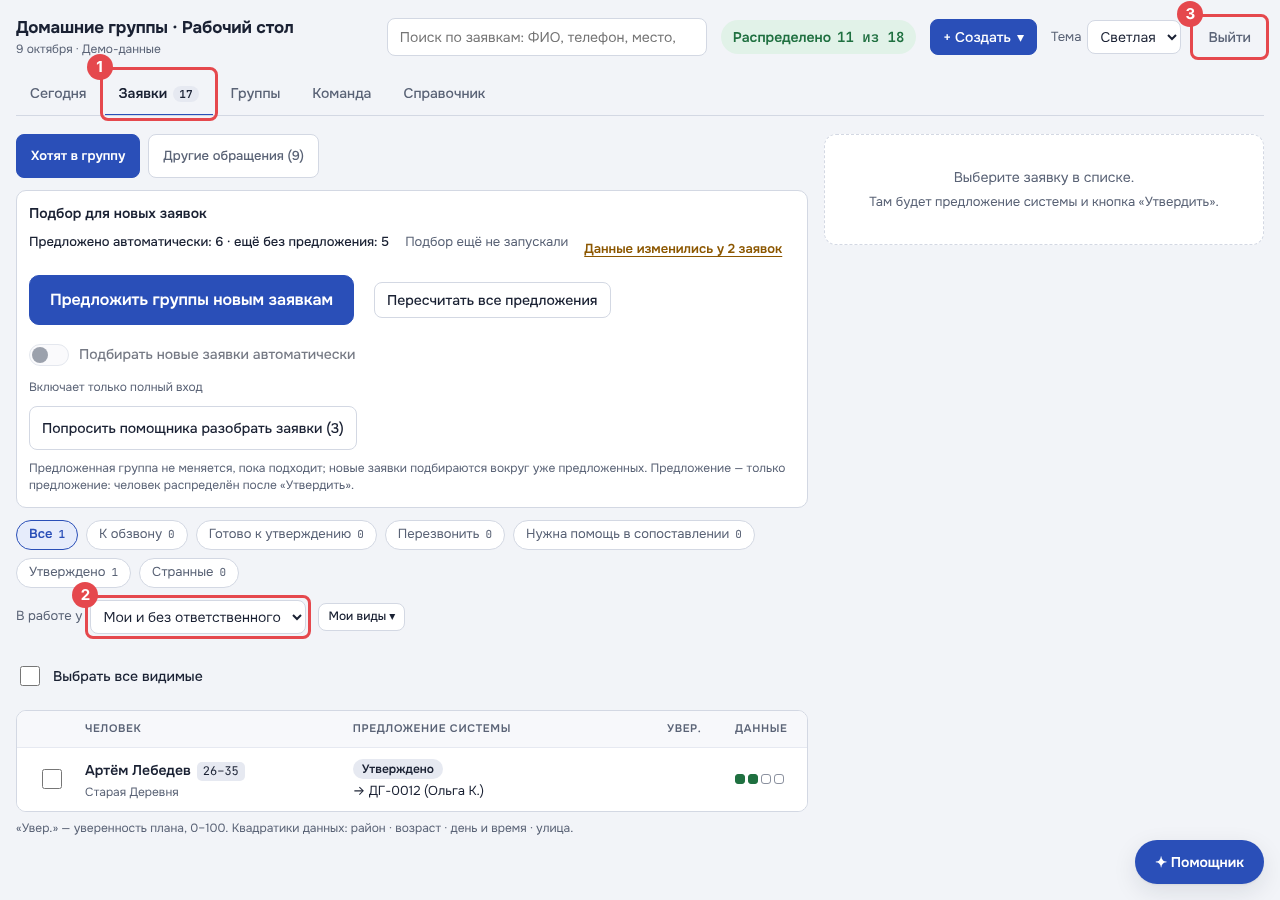
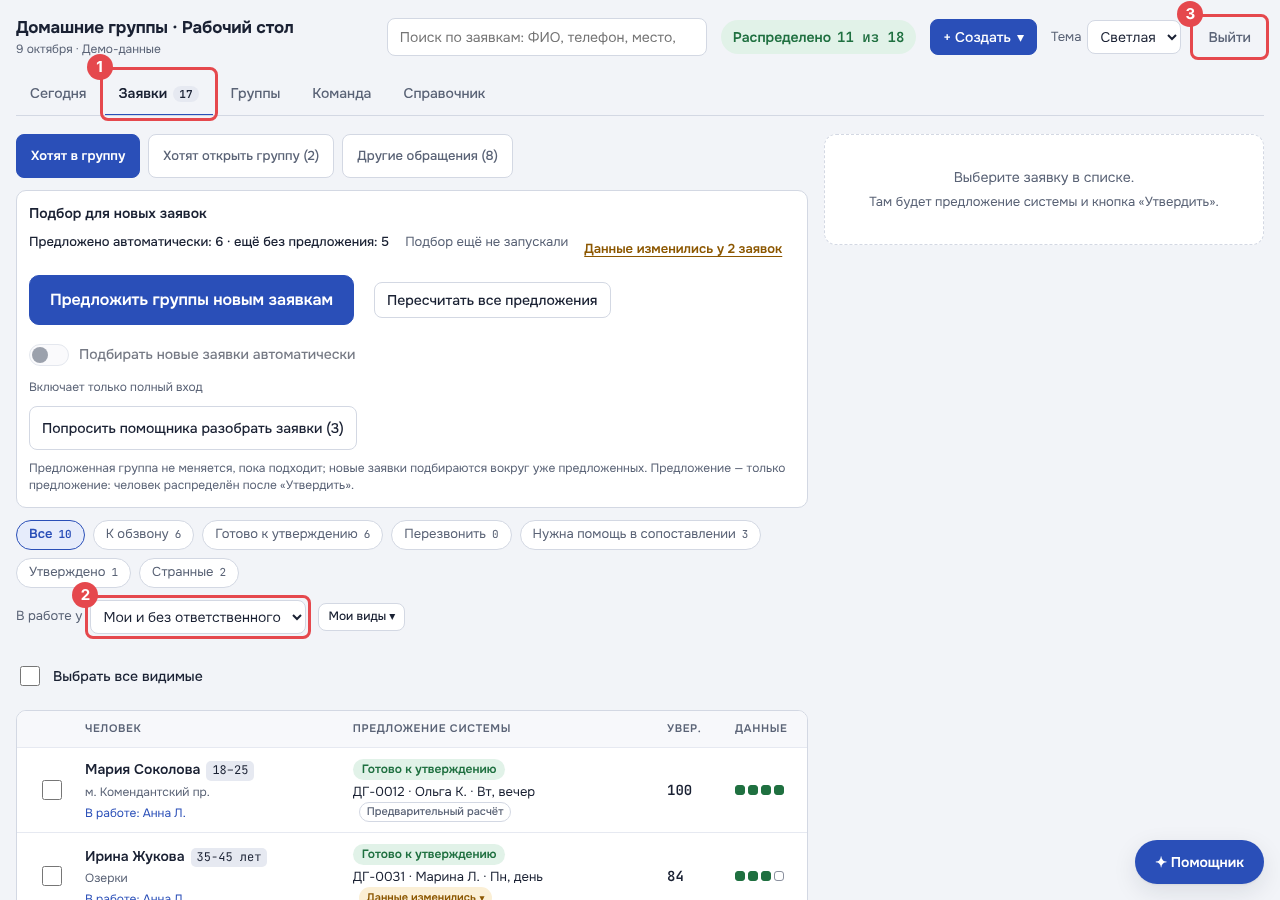
Памятка для команды: раздельно для распределителя и координатора
- docs/ИНСТРУКЦИЯ-КООРДИНАТОРА.md: вход; распределитель — свои и ничьи заявки, звонок, правка
  данных, «Утвердить»; координатор — только свои группы, что спросить у ведущего (собирается ли,
  сколько людей и кто, когда, места всего и свободные, адрес; у неоткрывшейся — точно ли откроется),
  «Данные проверены», «Хотят открыть группу» и «Кого можно направить».
- Снимки пересняты от имени распределителя и координатора: в демо роль задаёт
  localStorage hg.demo.role (fixtures/index.ts), у экрана в shots.mjs — поле as.
- Фикстура: обращение «хочу открыть группу» у координатора Морозова с тремя подходящими людьми.

Claude-Session: https://claude.ai/code/session_016yjkviSSndHnHxkDyu6jMv

diff --git a/web/home-groups/src/fixtures/others.ts b/web/home-groups/src/fixtures/others.ts
@@ -99,6 +99,50 @@ function rawOthers(): RawOther[] {
       ],
     },
     {
+      // Ведущая ДГ-0112 (координатор Морозов Д.): на ней снята инструкция координатора.
+      id: 213,
+      type: 'lead_group',
+      typeLabel: 'Хочет открыть группу или дать дом',
+      gist: 'Хочет открыть женскую группу у себя дома на Новочеркасской.',
+      reconcile: null,
+      state: 'open',
+      fio: 'Татьяна Фёдорова',
+      phone: '79212005519',
+      ageLabel: '46+',
+      place: 'Невский, м. Новочеркасская',
+      status: 'В работе',
+      source: 'Бот · Telegram',
+      waitingDays: 6,
+      callback: false,
+      responsible: 'Морозов Д.',
+      note: null,
+      cancelReason: null,
+      prospects: {
+        futureGroup: { id: 12, code: 'ДГ-0112' },
+        unknownPlace: false,
+        total: 3,
+        items: [
+          {
+            requestId: 4, fio: 'Денис Громов', ageLabel: '26–35', place: 'Ломоносовская', score: 74, proposed: null,
+            reasons: [{ tone: 'good', text: 'тот же район' }, { tone: 'neutral', text: 'возраст рядом' }],
+          },
+          {
+            requestId: 19, fio: 'Виталий Егоров', ageLabel: '26–35', place: 'Рыбацкое', score: 68, proposed: null,
+            reasons: [{ tone: 'good', text: 'тот же район' }, { tone: 'neutral', text: 'день не совпал' }],
+          },
+          {
+            requestId: 18, fio: 'Софья Крылова', ageLabel: '18–25', place: 'Новочеркасская', score: 55, proposed: 'ДГ-0007',
+            reasons: [{ tone: 'neutral', text: 'соседний район' }, { tone: 'good', text: 'рядом с метро' }],
+          },
+        ],
+      },
+      original: [
+        { label: 'Имя', value: 'Татьяна Фёдорова' },
+        { label: 'Малая группа', value: 'Хочет открыть свою группу' },
+      ],
+      log: [{ at: '2026-10-03', text: 'Заявка создана: хочет открыть группу.' }],
+    },
+    {
       id: 203,
       type: 'already_member',
       typeLabel: 'Уже состоит в группе',

diff --git a/web/home-groups/src/features/requests/others/model.spec.ts b/web/home-groups/src/features/requests/others/model.spec.ts
@@ -74,7 +74,7 @@ describe('«Другие обращения»: суть и разбор', () => 
 
   test('счётчики разбора считают только открытые: закрытые в них не входят', () => {
     const c = countReconcile(items);
-    expect(c).toEqual({ all: openOthersCount(items), ready: 2, choose: 2, missing: 2, rest: 3 });
+    expect(c).toEqual({ all: openOthersCount(items), ready: 2, choose: 2, missing: 2, rest: 4 });
     expect(c.ready + c.choose + c.missing + c.rest).toBe(c.all);
   });
 
@@ -83,7 +83,7 @@ describe('«Другие обращения»: суть и разбор', () => 
     expect(filterByReconcile(open, 'ready').map((o) => o.id)).toEqual([206, 210]);
     expect(filterByReconcile(open, 'choose').map((o) => o.id)).toEqual([207, 208]);
     expect(filterByReconcile(open, 'missing').map((o) => o.id)).toEqual([203, 209]);
-    expect(filterByReconcile(open, 'rest').map((o) => o.id)).toEqual([201, 202, 211]);
+    expect(filterByReconcile(open, 'rest').map((o) => o.id)).toEqual([201, 202, 213, 211]);
     expect(filterByReconcile(open, 'all').map((o) => o.id)).toEqual(open.map((o) => o.id));
   });
 

diff --git a/web/home-groups/src/fixtures/index.ts b/web/home-groups/src/fixtures/index.ts
@@ -22,11 +22,14 @@ import { fixtureChatClear, fixtureChatHistory, fixtureChatReply } from './chat';
 import { buildOthers, reconcileDemoOther, reconcileDemoReady } from './others';
 import { buildTeam } from './team';
 
-/** Личный вход в демо включает `localStorage['hg.demo.person']` (имя из справочника), его ставит `npm run shots:guide`. */
-function demoPerson(): { login: string; name: string } | null {
+/**
+ * Личный вход в демо включает `localStorage['hg.demo.person']` (имя из справочника) и `hg.demo.role` (роль в команде:
+ * от неё зависят отборы по умолчанию), их ставит `npm run shots:guide`.
+ */
+function demoPerson(): { login: string; name: string; teamRole: string | null } | null {
   try {
     const name = globalThis.localStorage?.getItem('hg.demo.person');
-    return name ? { login: 'demo', name } : null;
+    return name ? { login: 'demo', name, teamRole: globalThis.localStorage?.getItem('hg.demo.role') ?? null } : null;
   } catch {
     return null;
   }

diff --git a/docs/ИНСТРУКЦИЯ-КООРДИНАТОРА.md b/docs/ИНСТРУКЦИЯ-КООРДИНАТОРА.md
@@ -1,6 +1,9 @@
-# Памятка координатора
+# Памятка для команды
 
 На картинках красная рамка с цифрой показывает, куда нажать. Цифра на картинке — это номер пункта под ней.
+
+- **Распределитель** звонит людям, которые хотят в группу, и подбирает им группу. Читайте разделы 1 и 2.
+- **Координатор** звонит в свои группы и проверяет их. Читайте разделы 1 и 3.
 
 ## 1. Войти
 
@@ -12,9 +15,9 @@
 2. Впишите **пароль**.
 3. Нажмите **«Войти»**.
 
-Забыли пароль — попросите того, кто его выдал, сделать новый. Ссылку «Забыли пароль?» нажимать не нужно.
+Забыли пароль — попросите того, кто его выдал, сделать новый.
 
-## 2. Ваши заявки
+## 2. Распределитель: заявки
 
 ![Вкладка «Заявки»](инструкция-координатора/guide-02-requests.png)
 
@@ -22,32 +25,54 @@
 2. Здесь сразу видны **ваши заявки и те, что ещё никто не взял**. Ничего настраивать не нужно.
 3. Закончили — нажмите **«Выйти»** справа вверху.
 
-## 3. Ваши группы
+Нажмите на человека — справа откроется его заявка.
 
-![Вкладка «Группы» и кнопка «Мои группы»](инструкция-координатора/guide-03-my-groups.png)
+![Заявка человека](инструкция-координатора/guide-03-request-card.png)
 
-1. Откройте вкладку **«Группы»**.
-2. Нажмите **«Фильтры»**.
-3. Нажмите **«Мои группы»**. В таблице останутся только ваши группы.
+1. **Позвоните** человеку. Спросите, какая группа ему подойдёт: район, день, время.
+2. Чего-то не хватает или ошибка — нажмите **карандаш** и допишите.
+3. Группа подходит — нажмите **«Утвердить»**.
 
-## 4. Проверить группу
+## 3. Координатор: свои группы
 
-Нажмите на строку группы — справа откроется её карточка.
+![Вкладка «Группы»](инструкция-координатора/guide-04-my-groups.png)
 
-![Карточка группы](инструкция-координатора/guide-04-card.png)
+1. Откройте вкладку **«Группы»**. Здесь сразу видны **только ваши группы**.
 
-1. Проверьте вместе с ведущим, **когда** собирается группа.
-2. Проверьте **адрес**.
-3. Если что-то не так или всё верно — нажмите **карандаш**.
+Позвоните в **каждую** группу. Нажмите на строку группы — справа откроется её карточка.
 
-![Правка группы](инструкция-координатора/guide-05-edit.png)
+![Карточка группы](инструкция-координатора/guide-05-card.png)
 
-1. Исправьте, что нужно, и поставьте галочку **«Данные проверены»**.
+Спросите у ведущего и сверьте с карточкой:
+
+- группа **собирается**?
+- **сколько людей** и кто они;
+- **когда** собирается (1);
+- **сколько мест** всего и сколько свободно (2);
+- **адрес** (3).
+
+Если группа **ещё не открылась** — спросите, точно ли она откроется, и всё то же самое.
+
+4. Нажмите **карандаш**.
+
+![Правка группы](инструкция-координатора/guide-06-edit.png)
+
+Исправьте, что изменилось.
+
+1. Поставьте галочку **«Данные проверены»**.
 2. Нажмите **«Сохранить»**.
 
-Готово. Так проверьте все свои группы.
+### Кто хочет открыть группу
+
+![«Хотят открыть группу»](инструкция-координатора/guide-07-leads.png)
+
+1. В **«Заявках»** нажмите **«Хотят открыть группу»**. Здесь ваши люди, которые хотят открыть группу.
+2. Нажмите на человека. Справа будет **«Кого можно направить»** — сколько людей можно отправить в эту группу.
+
+Так при звонке можно сказать: «Можем направить к вам троих». Или: «Пока людей нет».
 
 ---
 
 <sub>Для разработчиков: картинки пересоздаёт `npm run shots:guide` в `web/home-groups` (экраны `guide-*` в
-`scripts/shots.mjs`, вход «по личному паролю» в демо — `localStorage['hg.demo.person']`).</sub>
+`scripts/shots.mjs`; вход «по личному паролю» в демо — `localStorage['hg.demo.person']` и `hg.demo.role`, см.
+`src/fixtures/index.ts`).</sub>

diff --git a/КАК-РАБОТАЕТ-ДАШБОРД.md b/КАК-РАБОТАЕТ-ДАШБОРД.md
@@ -104,8 +104,8 @@
 Группы, люди, координаторы: таблицы с поиском, фильтрами и группировкой. Правка группы и координатора, у людей —
 карточка регистрации и QR.
 
-**Координаторам:** короткая памятка со снимками экрана — как войти по паролю, где свои заявки и группы и как отметить
-«Данные проверены» — в [docs/ИНСТРУКЦИЯ-КООРДИНАТОРА.md](docs/ИНСТРУКЦИЯ-КООРДИНАТОРА.md).
+**Команде:** короткая памятка со снимками экрана — как войти по паролю, что делает распределитель (заявки) и что
+координатор (обзвон своих групп, «Кого можно направить») — в [docs/ИНСТРУКЦИЯ-КООРДИНАТОРА.md](docs/ИНСТРУКЦИЯ-КООРДИНАТОРА.md).
 
 **Кто вошёл по своему паролю**, сразу видит своё — по роли из «Справочник → Координаторы»:
 - **Распределитель** (звонит людям из заявок, подбирает группу) — в «Заявках» свои заявки и те, что никто не взял
